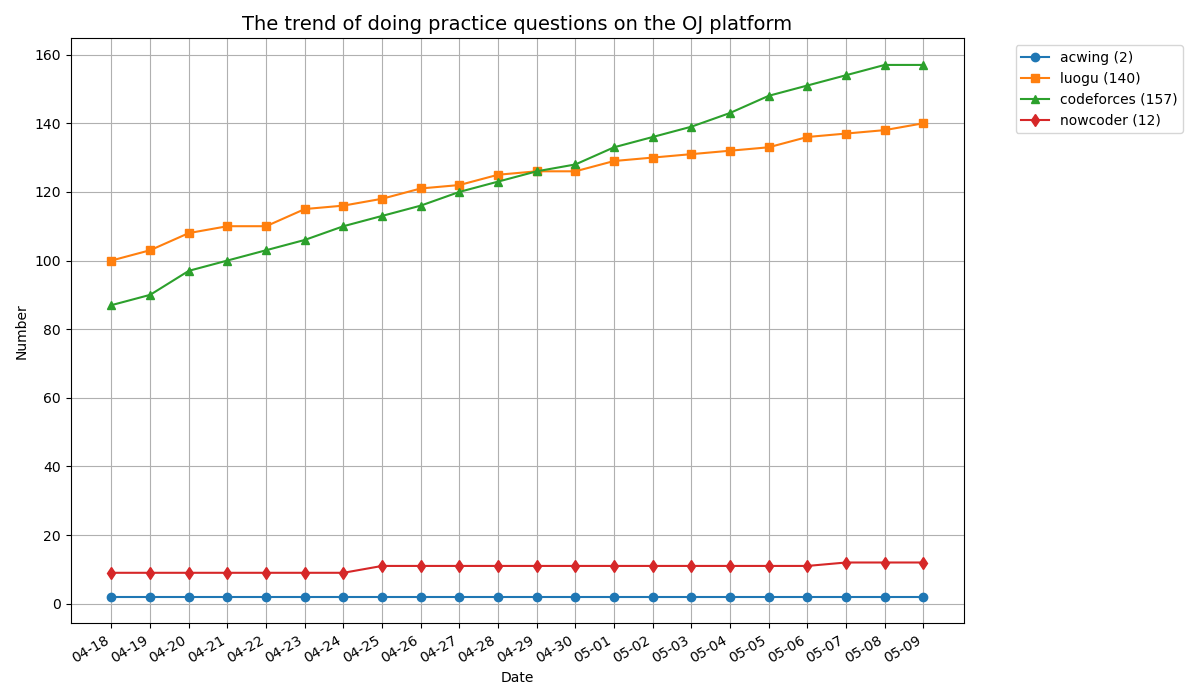
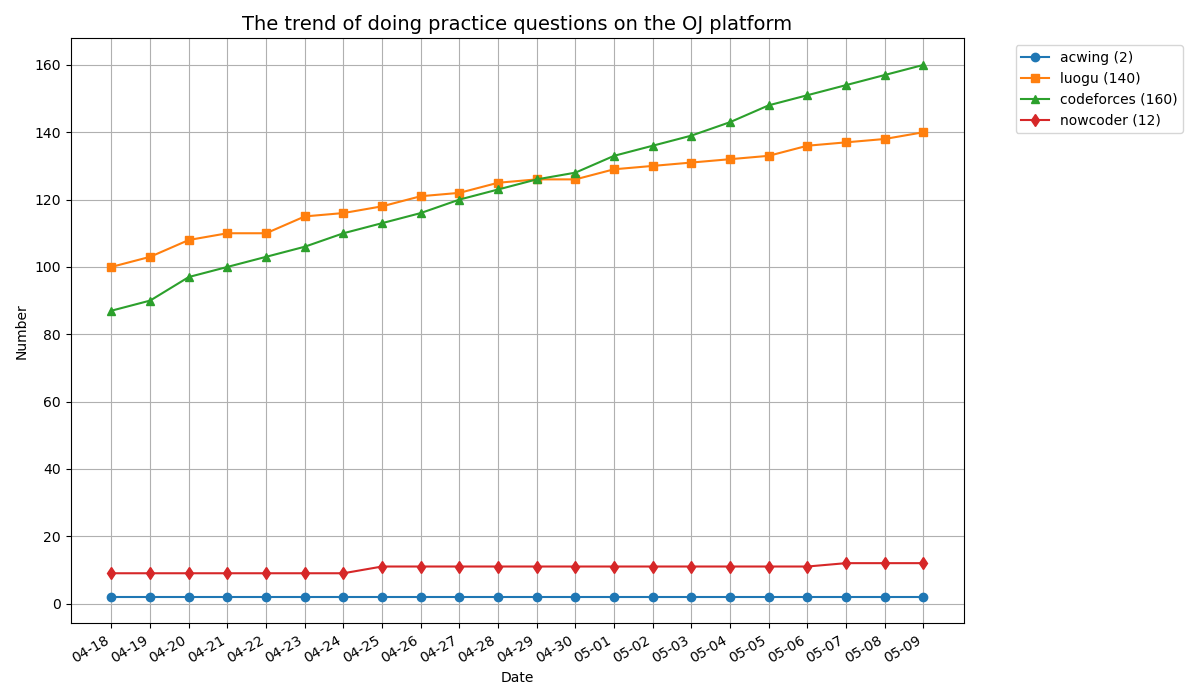
update

diff --git a/codeforces/131A/main.cpp b/codeforces/131A/main.cpp
@@ -1,0 +1,93 @@
+#include <bits/stdc++.h>
+using namespace std;
+
+#define ALL(x) (x).begin(), (x).end()
+#define MAXV(a, l, r) *std::max_element((a).begin() + (l), (a).begin() + (r))
+#define MINV(a, l, r) *std::min_element((a).begin() + (l), (a).begin() + (r))
+
+using ll = long long int;
+using ull = unsigned long long int;
+using PII = pair<int, int>;
+
+#define DEBUG
+#ifdef DEBUG
+template <typename Container>
+void PrintCon(const Container &cont)
+{
+    std::cout << "{ ";
+    if (!cont.empty())
+    {
+        auto it = cont.begin();
+        std::cout << "\033[33m" << *it++ << "\033[0m";
+        for (; it != cont.end(); ++it)
+            std::cout << " | " << "\033[33m" << *it << "\033[0m";
+    }
+    std::cout << " }" << std::endl;
+}
+
+template <typename... Args>
+void LOG(Args &&...values)
+{
+    ((std::cout << "\033[33m" << std::forward<Args>(values) << "\033[0m" << " "), ...);
+    std::cout << std::endl;
+}
+
+#else
+
+template <typename... Args>
+void LOG(Args &...args);
+template <typename Container>
+void PrintCon(const Container &cont);
+
+#endif
+
+int main()
+{
+    ios::sync_with_stdio(false);
+    cin.tie(nullptr);
+    string s;
+    cin >> s;
+    bool isup = true;
+    bool isfirstlow = (islower(s[0]) ? true : false);
+    bool chule = true;
+    for (int i = 0; i < s.size(); i++)
+    {
+        if (islower(s[i])){
+            isup = false;
+            break;
+        }
+    }
+    for (int i = 1; i < s.size(); i++)
+    {
+        if (islower(s[i])){
+            chule = false;
+            break;
+        }
+    }
+    if (isup || (isfirstlow && chule))
+    {
+        std::string result;
+        for (char c : s)
+        {
+            if (isupper(c))
+            {
+                result += tolower(c);
+            }
+            else if (islower(c))
+            {
+                result += toupper(c);
+            }
+            else
+            {
+                result += c;
+            }
+        }
+        cout << result << endl;
+    }
+    else
+    {
+        cout << s << endl;
+    }
+
+    return 0;
+}

diff --git a/codeforces/Con175edu/B/main.cpp b/codeforces/Con175edu/B/main.cpp
@@ -1,0 +1,77 @@
+#include <bits/stdc++.h>
+using namespace std;
+
+#define ALL(x) (x).begin(), (x).end()
+#define MAXV(a, l, r) *std::max_element((a).begin() + (l), (a).begin() + (r))
+#define MINV(a, l, r) *std::min_element((a).begin() + (l), (a).begin() + (r))
+
+using ll = long long int;
+using ull = unsigned long long int;
+using PII = pair<int, int>;
+
+#define DEBUG
+
+#ifdef DEBUG
+template <typename Container>
+void PrintCon(const Container &cont)
+{
+    std::cout << "{ ";
+    if (!cont.empty())
+    {
+        auto it = cont.begin();
+        std::cout << "\033[33m" << *it++ << "\033[0m";
+        for (; it != cont.end(); ++it)
+            std::cout << " | " << "\033[33m" << *it << "\033[0m";
+    }
+    std::cout << " }" << std::endl;
+}
+
+template <typename... Args>
+void LOG(Args &&...values)
+{
+    ((std::cout << "\033[33m" << std::forward<Args>(values) << "\033[0m" << " "), ...);
+    std::cout << std::endl;
+}
+#else
+template <typename... Args>
+void LOG(Args &...args);
+
+template <typename Container>
+void PrintCon(const Container &cont);
+#endif
+
+void solve()
+{
+    ll n, x, k;
+    string s;
+
+    cin >> n >> x >> k >> s;
+    ll nw1 = x, nw2 = 0, stp1 = n + 1, stp2 = k + 1;
+    s = ' ' + s;
+    for (ll i = 1; i <= n; i++)
+    {
+        if (s[i] == 'L')
+            nw1--, nw2--;
+        if (s[i] == 'R')
+            nw1++, nw2++;
+        if (nw1 == 0 && stp1 == n + 1)
+            stp1 = i;
+        if (nw2 == 0 && stp2 == k + 1)
+            stp2 = i;
+    }
+    cout << ((stp1 != n + 1 && k >= stp1) ? 1 + (k - stp1) / stp2 : 0) << endl;
+}
+
+int main()
+{
+    ios::sync_with_stdio(false);
+    cin.tie(nullptr);
+    int t;
+    cin >> t;
+    while (t--)
+    {
+        solve();
+    }
+
+    return 0;
+}

diff --git a/codeforces/Con175edu/A/main.cpp b/codeforces/Con175edu/A/main.cpp
@@ -1,0 +1,79 @@
+#include <bits/stdc++.h>
+using namespace std;
+
+#define ALL(x) (x).begin(), (x).end()
+#define MAXV(a, l, r) *std::max_element((a).begin() + (l), (a).begin() + (r))
+#define MINV(a, l, r) *std::min_element((a).begin() + (l), (a).begin() + (r))
+
+using ll = long long int;
+using ull = unsigned long long int;
+using PII = pair<int, int>;
+
+#define DEBUG
+
+#ifdef DEBUG
+template <typename Container>
+void PrintCon(const Container &cont)
+{
+    std::cout << "{ ";
+    if (!cont.empty())
+    {
+        auto it = cont.begin();
+        std::cout << "\033[33m" << *it++ << "\033[0m";
+        for (; it != cont.end(); ++it)
+            std::cout << " | " << "\033[33m" << *it << "\033[0m";
+    }
+    std::cout << " }" << std::endl;
+}
+
+template <typename... Args>
+void LOG(Args &&...values)
+{
+    ((std::cout << "\033[33m" << std::forward<Args>(values) << "\033[0m" << " "), ...);
+    std::cout << std::endl;
+}
+#else
+template <typename... Args>
+void LOG(Args &...args);
+
+template <typename Container>
+void PrintCon(const Container &cont);
+#endif
+
+void solve()
+{
+    int n;
+    cin >> n;
+    int cnt = 0;
+    for (int i = n / 15 * 15; i <= n; i++)
+    {
+        if (i % 3 == i % 5)
+            cnt++;
+    }
+    if (n < 3)
+    {
+        cout << n + 1 << endl;
+    }
+    else if (n == 5)
+    {
+        cout << 3 << endl;
+    }
+    else
+    {
+        cout <<n / 15 * 3 + cnt<< endl;
+    }
+}
+
+int main()
+{
+    ios::sync_with_stdio(false);
+    cin.tie(nullptr);
+    int t;
+    cin >> t;
+    while (t--)
+    {
+        solve();
+    }
+
+    return 0;
+}
